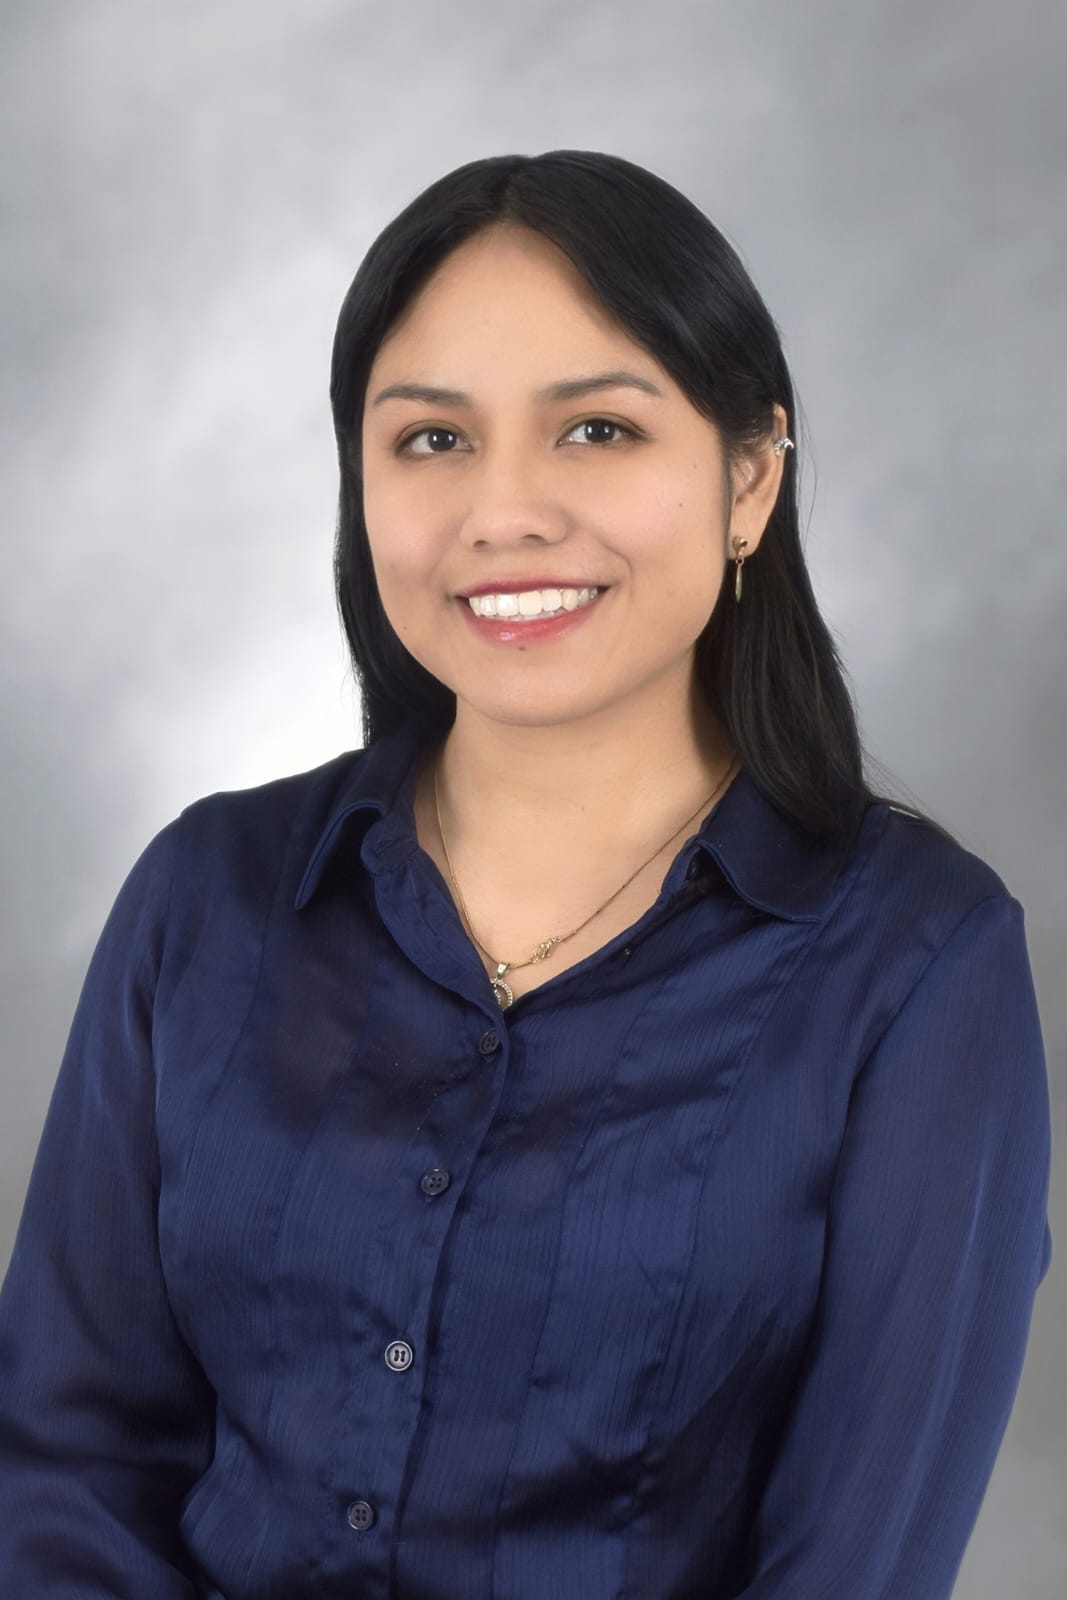
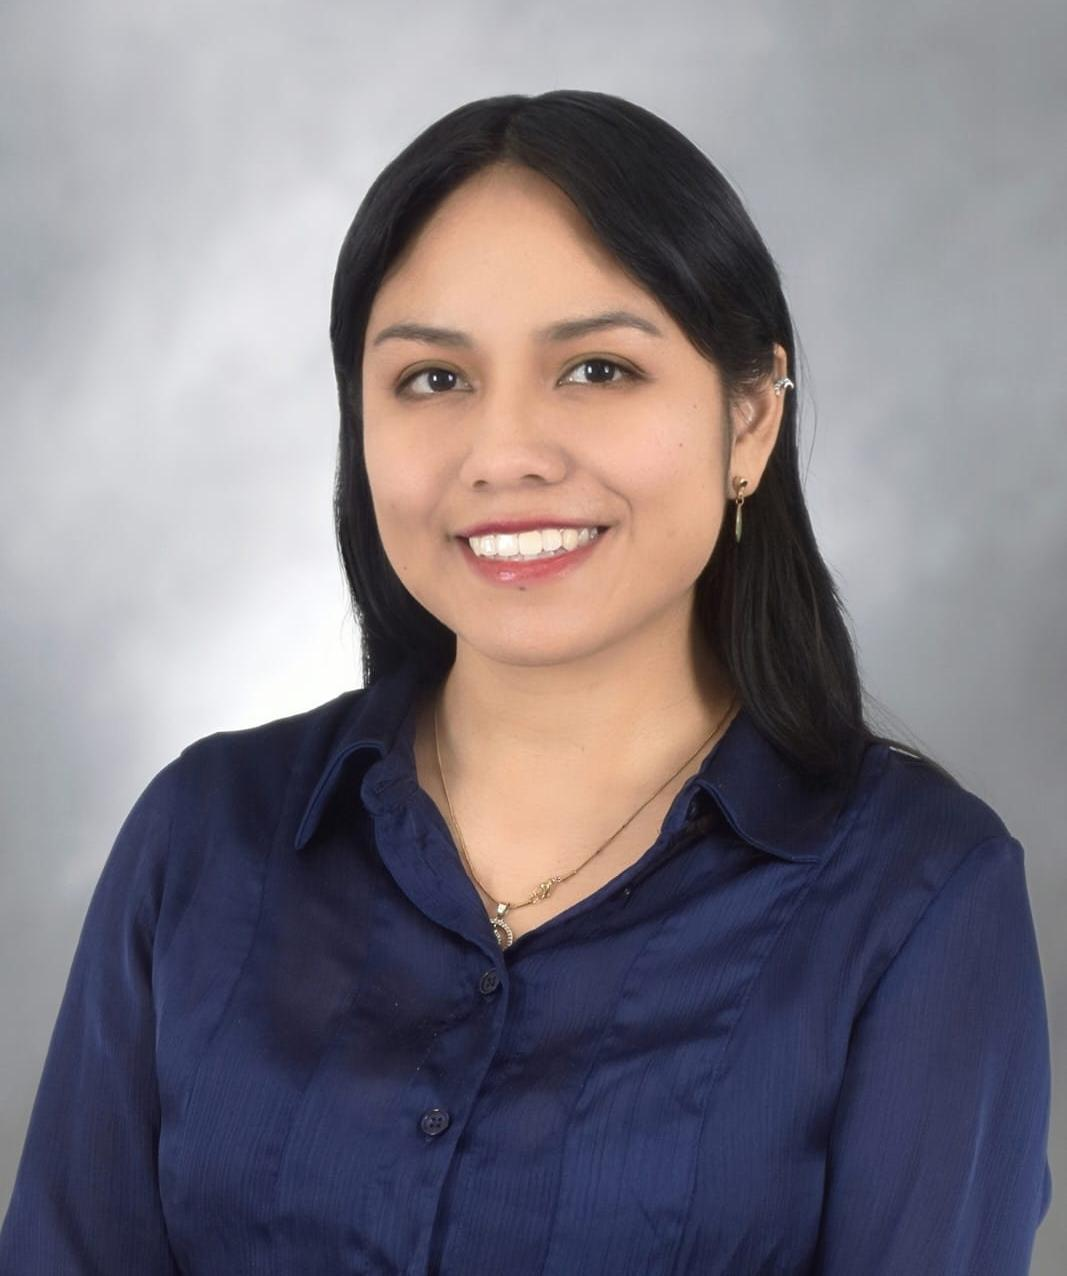
Cambios en mi descripcion
Le hice unos cambios y agregué una foto un poco más pequeña porque la anterior estaba muy larga

diff --git a/Frontend/interfaces/sobrenosotros.html b/Frontend/interfaces/sobrenosotros.html
@@ -120,9 +120,9 @@
         <!-- Tarjeta 5 -->
         <div class="col">
           <div class="card h-100 text-center team-card">
-            <img src="../imagenes/personas/jess-dev-foto.png" class="card-img-top team-img" alt="fotoJess" data-name="Jessica Maldonado" data-bio="Psicóloga clínica y social enfocada en el desarrollo de software. Ayudo a diseñar soluciones tecnológicas seguras y humanas integrando mi formación como psicóloga clínica y social.">
+            <img src="../imagenes/personas/jess-dev-foto.png" class="card-img-top team-img" alt="fotoJess" data-name="Jesica Maldonado" data-bio="Desarrolladora full stack jr. con formación en psicología y experiencia en proyectos de software y diseño de entornos digitales que priorizan el bienestar del usuario.">
             <div class="card-body">
-              <h5 class="card-title">Jessica Maldonado</h5>
+              <h5 class="card-title">Jesica Maldonado</h5>
               <p class="card-text">Licenciada en Psicología</p>
               <p class="card-text">QA Tester</p>
             </div>
